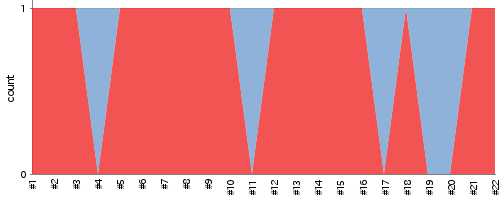
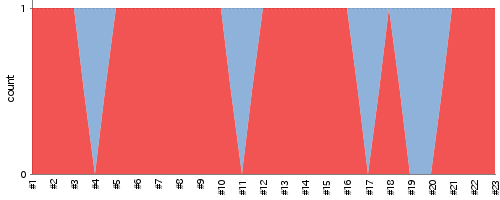
update report

diff --git a/index.md b/index.md
@@ -2,7 +2,7 @@
 layout: default
 ---
 # Jenkins CI report For HRG
-## Build and test report (2015/07/04 14:28:26)
+## Build and test report (2015/07/04 15:28:36)
 ### Build Status
 ___
 ![Build Status](http://jenkinshrg.github.io/images/badge.svg)
@@ -31,12 +31,13 @@ UNSTABLE
 * Stability
   
 ![Jenkins Icon](http://jenkinshrg.github.io/images/48x48/health-20to39.png)
-22%
+21%
   
 * Latest Results
   
 |Status|Time|Duration|Changes|Build|Test|Note|
 |---|---|---|---|---|---|---|
+|![Jenkins Icon](http://jenkinshrg.github.io/images/24x24/yellow.png)UNSTABLE|2015/07/04 15:00|28 min.||[BUILD](https://drive.google.com/file/d/0B54sHwaxmuM4VXlodkJmU0w2YzA/view?usp=drivesdk) |[CONSOLE](https://drive.google.com/file/d/0B54sHwaxmuM4dTlQR24tbHJWS3c/view?usp=drivesdk) [IMAGE](https://drive.google.com/file/d/0B54sHwaxmuM4eGFVTGZSQ2x0SVk/edit?usp=drivesdk) [VIDEO](https://drive.google.com/file/d/0B54sHwaxmuM4QWxlajlqV1B4Rzg/edit?usp=drivesdk) |STOP RED|
 |![Jenkins Icon](http://jenkinshrg.github.io/images/24x24/yellow.png)UNSTABLE|2015/07/04 14:00|28 min.||[BUILD](https://drive.google.com/file/d/0B54sHwaxmuM4Qm5KU1NPdV90d1E/view?usp=drivesdk) |[CONSOLE](https://drive.google.com/file/d/0B54sHwaxmuM4QzU0bEJoWW81eDA/view?usp=drivesdk) [IMAGE](https://drive.google.com/file/d/0B54sHwaxmuM4d0stMkIyd0ZFNlk/edit?usp=drivesdk) [VIDEO](https://drive.google.com/file/d/0B54sHwaxmuM4b1pMRkJxY3NYQnc/edit?usp=drivesdk) |STOP RED|
 |![Jenkins Icon](http://jenkinshrg.github.io/images/24x24/yellow.png)UNSTABLE|2015/07/04 13:00|28 min.||[BUILD](https://drive.google.com/file/d/0B54sHwaxmuM4cGROLUpvUl85R00/view?usp=drivesdk) |[CONSOLE](https://drive.google.com/file/d/0B54sHwaxmuM4NWZ1NVdxRjhMZkk/view?usp=drivesdk) [IMAGE](https://drive.google.com/file/d/0B54sHwaxmuM4YmlVR2pPYi1aNEE/edit?usp=drivesdk) [VIDEO](https://drive.google.com/file/d/0B54sHwaxmuM4bHJ6VmNJdFhWajg/edit?usp=drivesdk) |STOP NORMAL|
 |![Jenkins Icon](http://jenkinshrg.github.io/images/24x24/blue.png)SUCCESS|2015/07/04 12:00|28 min.||[BUILD](https://drive.google.com/file/d/0B54sHwaxmuM4MTNrNWh1c0dqV0U/view?usp=drivesdk) |[CONSOLE](https://drive.google.com/file/d/0B54sHwaxmuM4WS1FUGZPYVNaTzA/view?usp=drivesdk) [IMAGE](https://drive.google.com/file/d/0B54sHwaxmuM4eVRvNVQybmc3Zlk/edit?usp=drivesdk) [VIDEO](https://drive.google.com/file/d/0B54sHwaxmuM4XzM0aHBFM3JEcGs/edit?usp=drivesdk) | |
